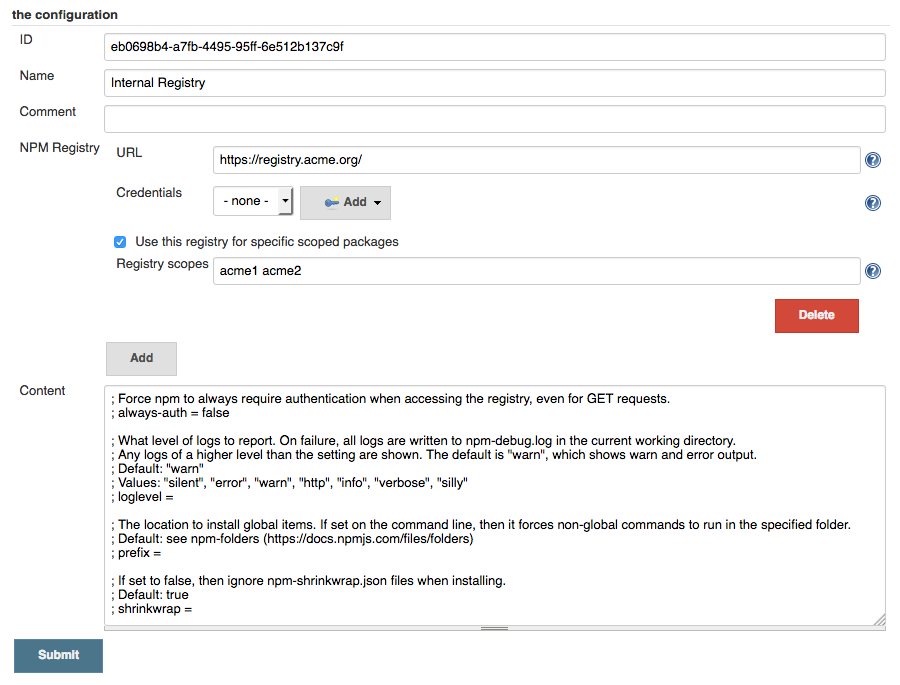
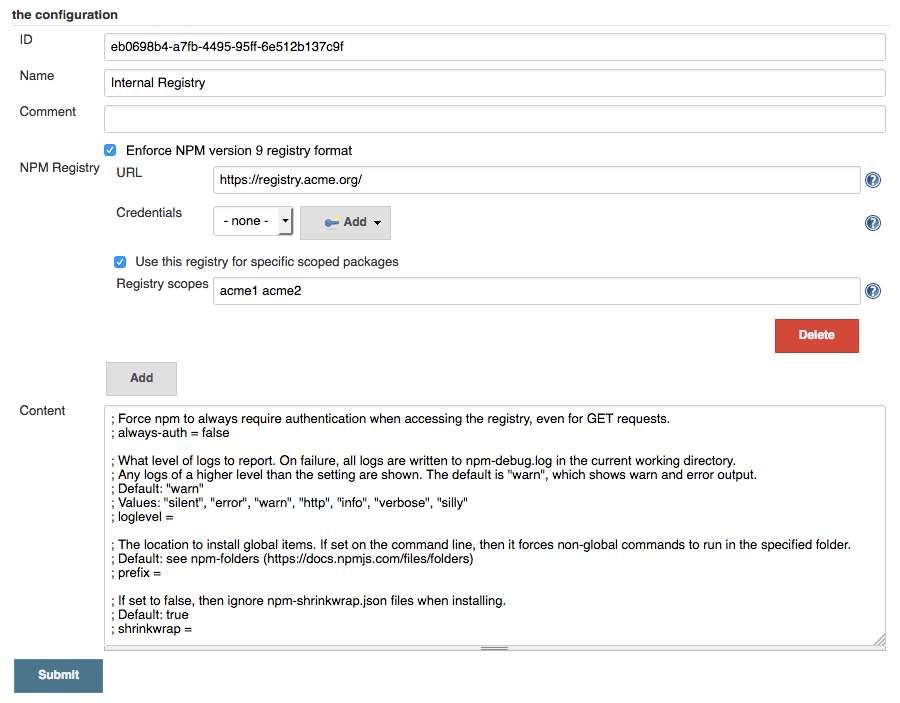
[JENKINS-70078] npm config is not compatible with npm version 9+
Add an option when create/edit a NPMConfig to render the npmrc in a format compatible with npm version 9

diff --git a/src/test/java/jenkins/plugins/nodejs/configfiles/RegistryHelperCredentialsTest.java b/src/test/java/jenkins/plugins/nodejs/configfiles/RegistryHelperCredentialsTest.java
@@ -42,7 +42,6 @@ import java.util.Collection;
 import java.util.HashMap;
 import java.util.Map;
 
-import com.cloudbees.plugins.credentials.common.StandardCredentials;
 import org.apache.commons.codec.binary.Base64;
 import org.assertj.core.api.Assertions;
 import org.junit.Test;
@@ -50,6 +49,7 @@ import org.junit.runner.RunWith;
 import org.junit.runners.Parameterized;
 import org.junit.runners.Parameterized.Parameters;
 
+import com.cloudbees.plugins.credentials.common.StandardCredentials;
 import com.cloudbees.plugins.credentials.common.StandardUsernameCredentials;
 import com.cloudbees.plugins.credentials.common.StandardUsernamePasswordCredentials;
 
@@ -76,12 +76,13 @@ public class RegistryHelperCredentialsTest {
         NPMRegistry scopedGlobalRegsitry = new NPMRegistry("https://registry.npmjs.org", null, "@user1 user2");
         NPMRegistry organisationRegistry = new NPMRegistry("https://registry.acme.com", user.getId(), "scope1 scope2");
 
-        dataParameters.add(new Object[] { "global no auth", new NPMRegistry[] { globalRegistry } });
-        dataParameters.add(new Object[] { "proxy with auth", new NPMRegistry[] { proxyRegistry } });
-        dataParameters.add(new Object[] { "global scoped no auth", new NPMRegistry[] { scopedGlobalRegsitry } });
-        dataParameters.add(new Object[] { "organisation scoped with auth", new NPMRegistry[] { organisationRegistry } });
+        dataParameters.add(new Object[] { "global no auth", new NPMRegistry[] { globalRegistry }, false });
+        dataParameters.add(new Object[] { "proxy with auth", new NPMRegistry[] { proxyRegistry }, false });
+        dataParameters.add(new Object[] { "global scoped no auth", new NPMRegistry[] { scopedGlobalRegsitry }, false });
+        dataParameters.add(new Object[] { "organisation scoped with auth", new NPMRegistry[] { organisationRegistry }, false });
+        dataParameters.add(new Object[] { "organisation scoped with auth", new NPMRegistry[] { organisationRegistry }, true });
         dataParameters.add(new Object[] { "mix of proxy + global scoped + scped organisation registries",
-                                          new NPMRegistry[] { proxyRegistry, scopedGlobalRegsitry, organisationRegistry } });
+                                          new NPMRegistry[] { proxyRegistry, scopedGlobalRegsitry, organisationRegistry }, true });
 
         return dataParameters;
     }
@@ -89,8 +90,9 @@ public class RegistryHelperCredentialsTest {
     private static StandardUsernameCredentials user;
     private NPMRegistry[] registries;
     private Map<String, StandardCredentials> resolvedCredentials;
+    private boolean npm9Format;
 
-    public RegistryHelperCredentialsTest(String testName, NPMRegistry[] registries) {
+    public RegistryHelperCredentialsTest(String testName, NPMRegistry[] registries, boolean npm9Format) {
         this.registries = registries;
 
         resolvedCredentials = new HashMap<>();
@@ -99,12 +101,13 @@ public class RegistryHelperCredentialsTest {
                 resolvedCredentials.put(r.getUrl(), user);
             }
         }
+        this.npm9Format = npm9Format;
     }
 
     @Test
     public void test_registry_credentials() throws Exception {
         RegistryHelper helper = new RegistryHelper(Arrays.asList(registries));
-        String content = helper.fillRegistry("", resolvedCredentials);
+        String content = helper.fillRegistry("", resolvedCredentials, npm9Format);
         assertNotNull(content);
 
         Npmrc npmrc = new Npmrc();
@@ -112,7 +115,7 @@ public class RegistryHelperCredentialsTest {
 
         for (NPMRegistry registry : registries) {
             if (!registry.isHasScopes()) {
-                verifyGlobalRegistry(registry, npmrc);
+                verifyGlobalRegistry(helper, registry, npmrc);
             } else {
                 verifyScopedRegistry(helper, npmrc, registry);
             }
@@ -121,20 +124,28 @@ public class RegistryHelperCredentialsTest {
     }
 
     private void verifyScopedRegistry(RegistryHelper helper, Npmrc npmrc, NPMRegistry registry) {
-        String prefix = helper.calculatePrefix(registry.getUrl());
+        String registryPrefix = helper.calculatePrefix(registry.getUrl());
+
+        // scoped registry not depends on npm format, has always the registry prefix
+        String alwaysAuthKey = helper.compose(registryPrefix, NPM_SETTINGS_ALWAYS_AUTH);
+        String usernameKey = helper.compose(registryPrefix, NPM_SETTINGS_USER);
+        String passwordKey = helper.compose(registryPrefix, NPM_SETTINGS_PASSWORD);
+
         for (String scope : registry.getScopesAsList()) {
-            assertFalse("Unexpected value for " + NPM_SETTINGS_AUTH, npmrc.contains(helper.compose(prefix, NPM_SETTINGS_AUTH)));
+            assertFalse("Unexpected value for " + NPM_SETTINGS_AUTH, npmrc.contains(helper.compose(registryPrefix, NPM_SETTINGS_AUTH)));
 
             if (registry.getCredentialsId() != null) {
                 // test require authentication, by default is false
-                assertTrue("Unexpected value for " + NPM_SETTINGS_ALWAYS_AUTH, npmrc.getAsBoolean(helper.compose(prefix, NPM_SETTINGS_ALWAYS_AUTH)));
+                Assertions.assertThat(npmrc.contains(alwaysAuthKey)).isTrue() //
+                    .describedAs("key %s not found", NPM_SETTINGS_ALWAYS_AUTH);
+                Assertions.assertThat(npmrc.getAsBoolean(alwaysAuthKey)).isTrue();
 
                 // test credentials fields
-                assertEquals("Unexpected value for " + NPM_SETTINGS_USER, user.getUsername(), npmrc.get(helper.compose(prefix, NPM_SETTINGS_USER)));
-                String password = npmrc.get(helper.compose(prefix, NPM_SETTINGS_PASSWORD));
-                assertNotNull("Unexpected value for " + NPM_SETTINGS_PASSWORD, password);
+                Assertions.assertThat(npmrc.get(usernameKey)).isEqualTo(user.getUsername());
+                String password = npmrc.get(passwordKey);
+                Assertions.assertThat(password).isNotNull();
                 password = new String(Base64.decodeBase64(password));
-                assertEquals("Invalid password for scoped registry", password, "mypassword");
+                Assertions.assertThat(password).isEqualTo("mypassword").describedAs("Invalid scoped password");
             }
 
             scope = '@' + scope;
@@ -145,20 +156,24 @@ public class RegistryHelperCredentialsTest {
         }
     }
 
-    private void verifyGlobalRegistry(NPMRegistry registry, Npmrc npmrc) {
-        // test require authentication, by default is false
-        assertEquals("Unexpected value for " + NPM_SETTINGS_ALWAYS_AUTH, registry.getCredentialsId() != null, npmrc.getAsBoolean(NPM_SETTINGS_ALWAYS_AUTH));
+    private void verifyGlobalRegistry(RegistryHelper helper, NPMRegistry registry, Npmrc npmrc) {
+        String registryPrefix = helper.calculatePrefix(registry.getUrl());
+        String alwaysAuthKey = npm9Format ? helper.compose(registryPrefix, NPM_SETTINGS_ALWAYS_AUTH) : NPM_SETTINGS_ALWAYS_AUTH;
+        String authKey = npm9Format ? helper.compose(registryPrefix, NPM_SETTINGS_AUTH) : NPM_SETTINGS_AUTH;
+
+        Assertions.assertThat(npmrc.contains(alwaysAuthKey)).isEqualTo(registry.getCredentialsId() != null) //
+            .describedAs("Unexpected value for %s", alwaysAuthKey);
 
         if (registry.getCredentialsId() != null) {
             // test _auth
-            String auth = npmrc.get(NPM_SETTINGS_AUTH);
+            String auth = npmrc.get(authKey);
             assertNotNull("Unexpected value for " + NPM_SETTINGS_AUTH, npmrc);
             auth = new String(Base64.decodeBase64(auth));
             Assertions.assertThat(auth).startsWith(user.getUsername()).endsWith("mypassword");
         }
 
         // test registry URL entry
-        assertEquals("Unexpected value for " + NPM_SETTINGS_REGISTRY, registry.getUrl(), npmrc.get(NPM_SETTINGS_REGISTRY));
+        Assertions.assertThat(npmrc.get(NPM_SETTINGS_REGISTRY)).isEqualTo(registry.getUrl());
     }
 
 }

diff --git a/src/main/java/jenkins/plugins/nodejs/configfiles/RegistryHelper.java b/src/main/java/jenkins/plugins/nodejs/configfiles/RegistryHelper.java
@@ -23,7 +23,12 @@
  */
 package jenkins.plugins.nodejs.configfiles;
 
-import static jenkins.plugins.nodejs.NodeJSConstants.*;
+import static jenkins.plugins.nodejs.NodeJSConstants.NPM_SETTINGS_ALWAYS_AUTH;
+import static jenkins.plugins.nodejs.NodeJSConstants.NPM_SETTINGS_AUTH;
+import static jenkins.plugins.nodejs.NodeJSConstants.NPM_SETTINGS_AUTHTOKEN;
+import static jenkins.plugins.nodejs.NodeJSConstants.NPM_SETTINGS_PASSWORD;
+import static jenkins.plugins.nodejs.NodeJSConstants.NPM_SETTINGS_REGISTRY;
+import static jenkins.plugins.nodejs.NodeJSConstants.NPM_SETTINGS_USER;
 
 import java.net.MalformedURLException;
 import java.net.URL;
@@ -33,19 +38,19 @@ import java.util.HashMap;
 import java.util.List;
 import java.util.Map;
 
-import edu.umd.cs.findbugs.annotations.CheckForNull;
-import edu.umd.cs.findbugs.annotations.NonNull;
-import edu.umd.cs.findbugs.annotations.Nullable;
-
 import org.apache.commons.codec.binary.Base64;
+import org.apache.commons.lang.StringUtils;
 import org.jenkinsci.plugins.plaincredentials.StringCredentials;
 
 import com.cloudbees.plugins.credentials.CredentialsProvider;
 import com.cloudbees.plugins.credentials.common.StandardCredentials;
 import com.cloudbees.plugins.credentials.common.StandardUsernamePasswordCredentials;
 import com.cloudbees.plugins.credentials.domains.DomainRequirement;
-import com.cloudbees.plugins.credentials.domains.HostnameRequirement;
+import com.cloudbees.plugins.credentials.domains.URIRequirementBuilder;
 
+import edu.umd.cs.findbugs.annotations.CheckForNull;
+import edu.umd.cs.findbugs.annotations.NonNull;
+import edu.umd.cs.findbugs.annotations.Nullable;
 import edu.umd.cs.findbugs.annotations.SuppressFBWarnings;
 import hudson.Util;
 import hudson.model.Run;
@@ -82,7 +87,7 @@ public final class RegistryHelper {
                 final URL registryURL = toURL(registry.getUrl());
                 List<DomainRequirement> domainRequirements = Collections.emptyList();
                 if (registryURL != null) {
-                    domainRequirements = Collections.<DomainRequirement> singletonList(new HostnameRequirement(registryURL.getHost()));
+                    domainRequirements = URIRequirementBuilder.fromUri(registry.getUrl()).build();
                 }
 
                 StandardCredentials c = CredentialsProvider.findCredentialById(credentialsId, StandardCredentials.class, build, domainRequirements);
@@ -103,8 +108,22 @@ public final class RegistryHelper {
      * @return the updated version of the {@code npmrcContent} with the registry
      *         credentials added
      */
-    @SuppressFBWarnings(value = "DM_DEFAULT_ENCODING", justification = "npm auth_token could not support base64 UTF-8 char encoding")
     public String fillRegistry(String npmrcContent, Map<String, StandardCredentials> registry2Credentials) {
+        return fillRegistry(npmrcContent, registry2Credentials, false);
+    }
+
+    /**
+     * Fill the npmpc user config with the given registries.
+     *
+     * @param npmrcContent .npmrc user config
+     * @param registry2Credentials the credentials to be inserted into the user
+     *        config (key: registry URL, value: Jenkins credentials)
+     * @param npm9Format use npm version 9 format
+     * @return the updated version of the {@code npmrcContent} with the registry
+     *         credentials added
+     */
+    @SuppressFBWarnings(value = "DM_DEFAULT_ENCODING", justification = "npm auth_token could not support base64 UTF-8 char encoding")
+    public String fillRegistry(String npmrcContent, Map<String, StandardCredentials> registry2Credentials, boolean npm9Format) {
         Npmrc npmrc = new Npmrc();
         npmrc.from(npmrcContent);
 
@@ -123,8 +142,9 @@ public final class RegistryHelper {
 
                     // add scoped values to the user config file
                     npmrc.set(compose('@' + scope, NPM_SETTINGS_REGISTRY), registryURL);
-                    npmrc.set(compose(registryPrefix, NPM_SETTINGS_ALWAYS_AUTH), credentials != null);
                     if (credentials != null) { // NOSONAR
+                        npmrc.set(compose(registryPrefix, NPM_SETTINGS_ALWAYS_AUTH), credentials != null);
+
                         // the _auth directive seems not be considered for scoped registry
                         // only authToken or username/password works
                         if (credentials instanceof StandardUsernamePasswordCredentials) {
@@ -138,17 +158,19 @@ public final class RegistryHelper {
                     }
                 }
             } else {
+                String registryPrefix = npm9Format ? calculatePrefix(registry.getUrl()) : null;
+
                 // add values to the user config file
                 npmrc.set(NPM_SETTINGS_REGISTRY, registry.getUrl());
-                npmrc.set(NPM_SETTINGS_ALWAYS_AUTH, credentials != null);
                 if (credentials != null) {
+                    npmrc.set(compose(registryPrefix, NPM_SETTINGS_ALWAYS_AUTH), credentials != null);
                     if (credentials instanceof StandardUsernamePasswordCredentials) {
                         String authValue = ((StandardUsernamePasswordCredentials)credentials).getUsername() + ':' + Secret.toString(((StandardUsernamePasswordCredentials)credentials).getPassword());
                         authValue = Base64.encodeBase64String(authValue.getBytes());
-                        npmrc.set(NPM_SETTINGS_AUTH, authValue);
+                        npmrc.set(compose(registryPrefix, NPM_SETTINGS_AUTH), authValue);
                     } else if (credentials instanceof StringCredentials) {
                         String tokenValue = Secret.toString(((StringCredentials)credentials).getSecret());
-                        npmrc.set(NPM_SETTINGS_AUTHTOKEN, tokenValue);
+                        npmrc.set(compose(registryPrefix, NPM_SETTINGS_AUTHTOKEN), tokenValue);
                     }
                 }
             }
@@ -180,6 +202,9 @@ public final class RegistryHelper {
 
     @NonNull
     public String compose(@NonNull final String registryPrefix, @NonNull final String setting) {
+        if (StringUtils.isBlank(registryPrefix)) {
+            return setting;
+        }
         return registryPrefix + ":" + setting;
     }
 

diff --git a/src/main/java/jenkins/plugins/nodejs/configfiles/NPMConfig.java b/src/main/java/jenkins/plugins/nodejs/configfiles/NPMConfig.java
@@ -29,17 +29,17 @@ import java.util.ArrayList;
 import java.util.List;
 import java.util.Map;
 
-import edu.umd.cs.findbugs.annotations.NonNull;
-
 import org.apache.commons.io.IOUtils;
 import org.apache.commons.lang.StringUtils;
 import org.jenkinsci.lib.configprovider.AbstractConfigProviderImpl;
 import org.jenkinsci.lib.configprovider.model.Config;
 import org.jenkinsci.lib.configprovider.model.ContentType;
 import org.kohsuke.stapler.DataBoundConstructor;
+import org.kohsuke.stapler.DataBoundSetter;
 
 import com.cloudbees.plugins.credentials.common.StandardCredentials;
 
+import edu.umd.cs.findbugs.annotations.NonNull;
 import hudson.AbortException;
 import hudson.Extension;
 import hudson.FilePath;
@@ -58,6 +58,7 @@ public class NPMConfig extends Config {
     private static final long serialVersionUID = 1L;
 
     private final List<NPMRegistry> registries;
+    private boolean npm9Format = false;
 
     @DataBoundConstructor
     public NPMConfig(@NonNull String id, String name, String comment, String content, List<NPMRegistry> registries) {
@@ -94,9 +95,23 @@ public class NPMConfig extends Config {
         }
     }
 
+    public boolean isNpm9Format() {
+        return npm9Format;
+    }
+
+    /**
+     * Sets if the generated .npmrc format is compatible with NPM version 9.
+     *
+     * @param npm9Format enable NPM version 9 or not
+     */
+    @DataBoundSetter
+    public void setNpm9Format(boolean npm9Format) {
+        this.npm9Format = npm9Format;
+    }
+
     @Extension
     public static class NPMConfigProvider extends AbstractConfigProviderImpl {
-        
+
         public NPMConfigProvider() {
             load();
         }
@@ -135,7 +150,7 @@ public class NPMConfig extends Config {
                 if (!registries.isEmpty()) {
                     listener.getLogger().println("Adding all registry entries");
                     Map<String, StandardCredentials> registry2Credentials = helper.resolveCredentials(build);
-                    fileContent = helper.fillRegistry(fileContent, registry2Credentials);
+                    fileContent = helper.fillRegistry(fileContent, registry2Credentials, config.npm9Format);
                 }
 
                 try {

diff --git a/src/test/java/jenkins/plugins/nodejs/JCasCTest.java b/src/test/java/jenkins/plugins/nodejs/JCasCTest.java
@@ -23,6 +23,24 @@
  */
 package jenkins.plugins.nodejs;
 
+import static org.hamcrest.MatcherAssert.assertThat;
+import static org.hamcrest.Matchers.allOf;
+import static org.hamcrest.Matchers.arrayWithSize;
+import static org.hamcrest.Matchers.containsInAnyOrder;
+import static org.hamcrest.Matchers.equalTo;
+import static org.hamcrest.Matchers.hasProperty;
+import static org.hamcrest.Matchers.hasSize;
+import static org.hamcrest.Matchers.instanceOf;
+import static org.junit.Assert.assertEquals;
+import static org.junit.Assert.assertTrue;
+
+import java.util.List;
+
+import org.jenkinsci.lib.configprovider.model.Config;
+import org.jenkinsci.plugins.configfiles.ConfigFiles;
+import org.junit.Assert;
+import org.jvnet.hudson.test.RestartableJenkinsRule;
+
 import hudson.tools.BatchCommandInstaller;
 import hudson.tools.CommandInstaller;
 import hudson.tools.InstallSourceProperty;
@@ -38,17 +56,6 @@ import jenkins.plugins.nodejs.configfiles.NPMConfig;
 import jenkins.plugins.nodejs.configfiles.NPMRegistry;
 import jenkins.plugins.nodejs.tools.NodeJSInstallation;
 import jenkins.plugins.nodejs.tools.NodeJSInstaller;
-import org.jenkinsci.lib.configprovider.model.Config;
-import org.jenkinsci.plugins.configfiles.ConfigFiles;
-import org.junit.Assert;
-import org.jvnet.hudson.test.RestartableJenkinsRule;
-
-import java.util.List;
-
-import static org.hamcrest.MatcherAssert.assertThat;
-import static org.hamcrest.Matchers.*;
-import static org.junit.Assert.assertEquals;
-import static org.junit.Assert.assertTrue;
 
 public class JCasCTest extends RoundTripAbstractTest {
 
@@ -66,6 +73,7 @@ public class JCasCTest extends RoundTripAbstractTest {
         assertEquals("myComment", npmConfig.comment);
         assertEquals("myContent", npmConfig.content);
         assertEquals("myConfig", npmConfig.name);
+        assertEquals(true, npmConfig.isNpm9Format());
 
         List<NPMRegistry> registries = npmConfig.getRegistries();
         Assert.assertTrue(registries.size() == 1);

diff --git a/src/main/java/jenkins/plugins/nodejs/NodeJSConstants.java b/src/main/java/jenkins/plugins/nodejs/NodeJSConstants.java
@@ -82,6 +82,8 @@ public final class NodeJSConstants {
      * </p>
      */
     public static final String NPM_SETTINGS_REGISTRY = "registry";
+
+    /* since npm 9 each of these entries must be scoped with a registry */
     /**
      * The authentication base64 string &gt;USER&lt;:&gt;PASSWORD&lt; used to
      * login to the global registry.

diff --git a/README.md b/README.md
@@ -83,10 +83,11 @@ Plugins Update Center.
     npm registry (scoped or public)  
     and select for each one stored credential (only user/password
     supported type) as follow:  
-    ![](docs/images/nodejs_npm_configfile.png)  
+    ![](docs/images/nodejs_npm_configfile.png)
     and than select the config file to use for each configured build
-    step  
+    step
     ![](docs/images/nodejs_choose_configfile.png)
+    You can also choose if enable or not the support for npm 9+ version.
 5.  You would relocate the npm cache folder to swipe out it when a job
     is removed or workspace folder is deleted. There are three default
     strategy:
